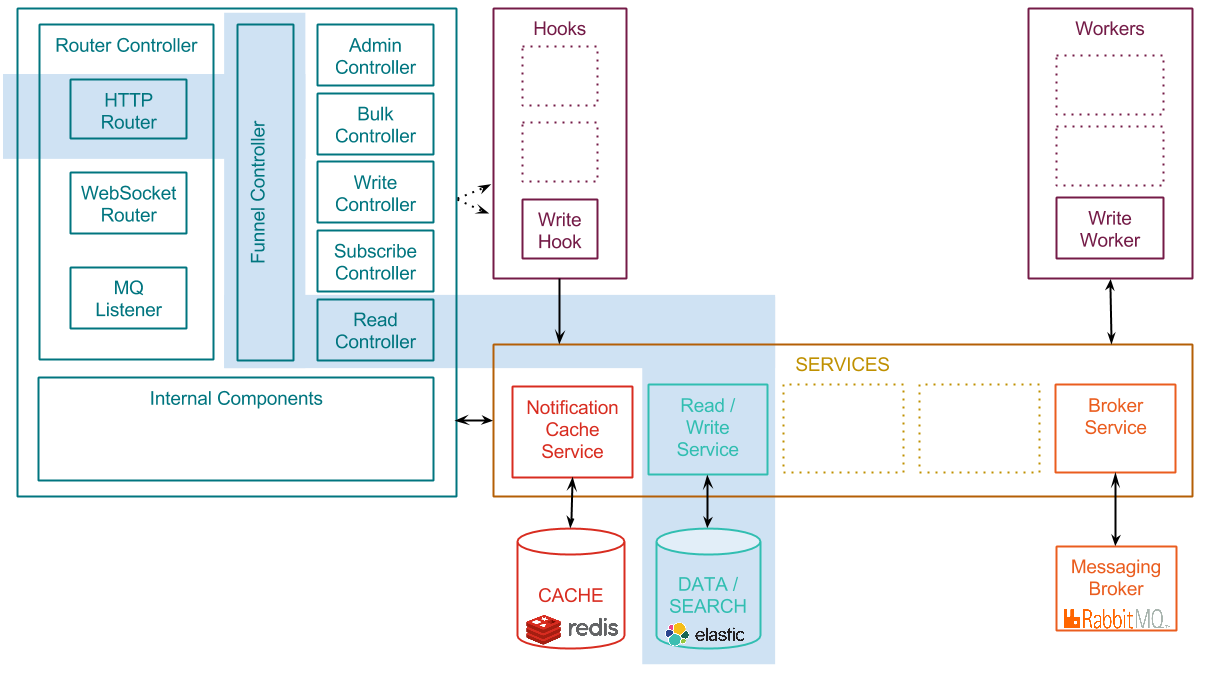
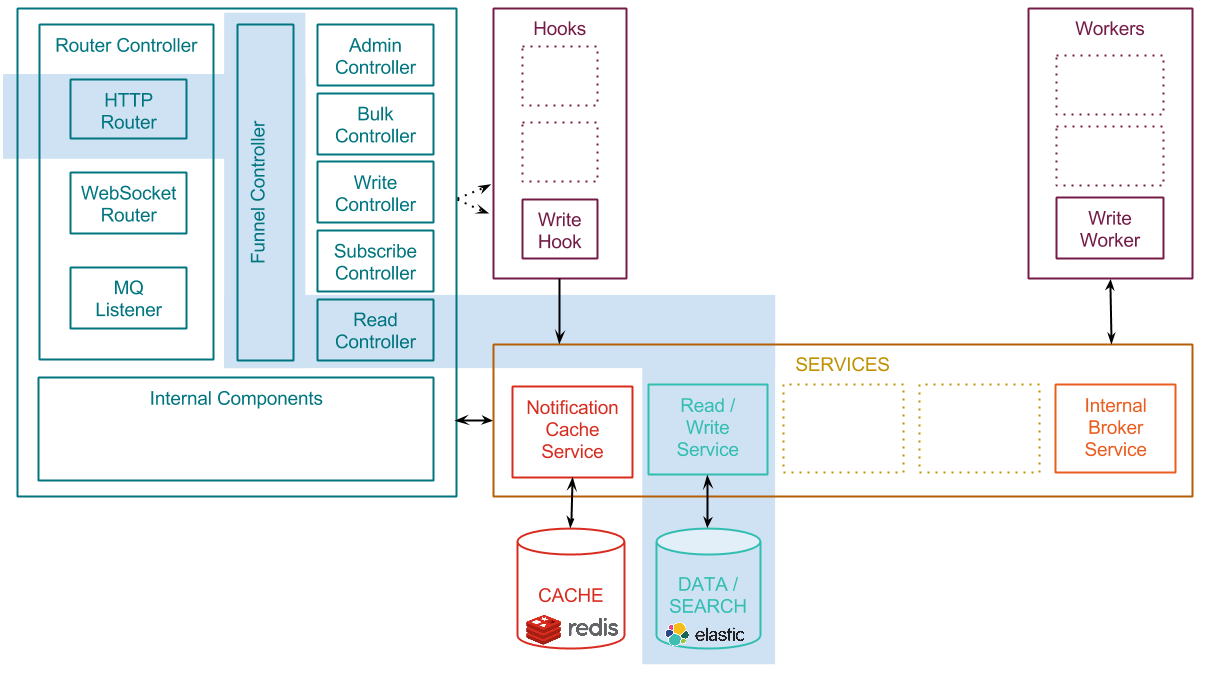
remove internal RabbitMQ Broker from core achitecture schema

Changed region(s): [[0.8562, 0.7801, 0.9785, 0.9361], [0.8868, 0.5929, 0.9479, 0.6865], [0.9174, 0.7177, 0.9479, 0.7489]]

diff --git a/docs/architecture.md b/docs/architecture.md
@@ -33,7 +33,7 @@ Focus on the above "Kuzzle kernel":
 Hooks allow to attach actions to Kuzzle events.
 
 For example, Admin, Bulk and Writer controllers emit a "data:create" event to handle some writing actions through the storage engine.
-This event will trigger the execution of the *add* method and of the *write* hook, which will send the received message to the broker service.
+This event will trigger the execution of the *add* method and of the *write* hook, which will send the received message to the internal broker.
 
 Then it is possible to implement custom hooks to trigger any event emitted by Kuzzle.
 
@@ -41,7 +41,7 @@ _For more details, see [hooks description](../lib/hooks/README.md)_
 
 ### Services
 
-In Kuzzle, a Service module is the implementation of the interface to external services used by the application (AMQP broker, storage engine, cache engine, etc.)
+In Kuzzle, a Service module is the implementation of the interface to external services used by the application (internal broker, storage engine, cache engine, etc.)
 
 _For more details, see [services description](../lib/services/README.md)_
 
@@ -49,7 +49,7 @@ _For more details, see [services description](../lib/services/README.md)_
 
 A worker is an independant component, detachable from a Kuzzle server container. It can be run in another container or even on another machine.
 
-Workers attach themselves to the broker service fed by Kuzzle to perform any kind of task.
+Workers attach themselves to the internal broker service fed by Kuzzle to perform any kind of task.
 
 For instance, writing persistent data on Kuzzle is implemented as a write worker.
 
